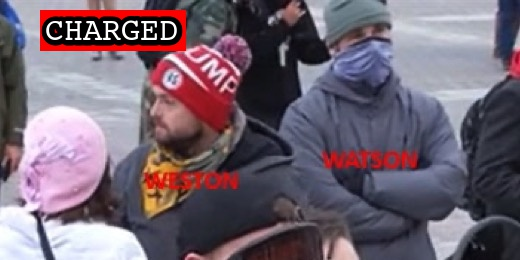
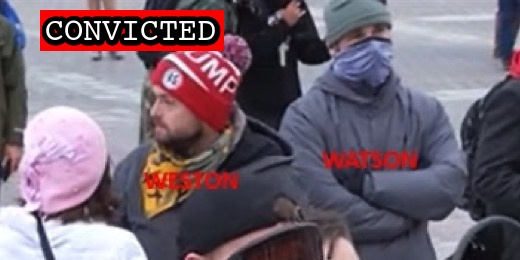
Latest

Changed region(s): [[0.1231, 0.0308, 0.4308, 0.2154]]

diff --git a/docs/_suspects/thomas-smith.md b/docs/_suspects/thomas-smith.md
@@ -17,7 +17,7 @@ plea_hearing:
 trial_date: 2023-11-13
 trial_type: Jury Trial
 jury_selection: 2023-11-13
-sentencing:
+sentencing: 2023-08-17
 status_conference:
 age:
 occupation:
@@ -38,55 +38,54 @@ layout: suspect
 published: true
 caseNumber: 21-cr-0599
 caseName: USA v. SMITH
-judge: Carl J. Nichols
+judge: Reggie B. Walton
 videos:
 charges:
-  - code: 18 USC § 231(a)(3)
-    title: Obstruction of Law Enforcement During Civil Disorder
-    url: https://www.law.cornell.edu/uscode/text/18/231
-    felony: true
-  - code: 18 USC § 231(a)(3)
-    title: Obstruction of Law Enforcement During Civil Disorder
-    url: https://www.law.cornell.edu/uscode/text/18/231
-    felony: true
-  - code: 18 USC § 1512(c)(2),2
-    title: Obstruction of an Official Proceeding (Aiding and Abetting)
-    url: https://www.law.cornell.edu/uscode/text/18/1512
-    felony: true
-  - code: 18 USC § 111(a)(1)
-    title: Assaulting, resisting, or impeding certain officers or employees
-    url: https://www.law.cornell.edu/uscode/text/18/111
-    felony: true
-  - code: 18 USC § 111(a)(1)
-    title: Assaulting, resisting, or impeding certain officers or employees
-    url: https://www.law.cornell.edu/uscode/text/18/111
-    felony: true
-  - code: 18 USC § 111(a)(1) and (b)
-    title: Assaulting, resisting, or impeding certain officers or employees (using a deadly or dangerous weapon)
-    url: https://www.law.cornell.edu/uscode/text/18/111
-    felony: true
-  - code: 18 USC § 1752(a)(1) and b(1)(A)
-    title: Entering a restricted building or grounds (w/a deadly weapon)
-    url: https://www.law.cornell.edu/uscode/text/18/1752
-    felony: true
-  - code: 18 USC § 1752(a)(1) and b(1)(A)
-    title: Entering a restricted building or grounds (w/a deadly weapon)
-    url: https://www.law.cornell.edu/uscode/text/18/1752
-    felony: true
-  - code: 18 USC § 1752(a)(1) and b(1)(A)
-    title: Entering a restricted building or grounds (w/a deadly weapon)
-    url: https://www.law.cornell.edu/uscode/text/18/1752
-    felony: true
-  - code: 40 USC § 5104(e)(2)(D)
-    title: Disorderly Conduct in a Capitol Building
-    url: https://www.law.cornell.edu/uscode/text/40/5104
-    felony: false
-  - code: 40 USC § 5104(e)(2)(F)
-    title: Act of physical violence on Capitol grounds
-    url: https://www.law.cornell.edu/uscode/text/40/5104
-    felony: false
+- code: 18 USC § 231(a)(3)
+  title: Obstruction of Law Enforcement During Civil Disorder
+  url: https://www.law.cornell.edu/uscode/text/18/231
+  felony: true
+- code: 18 USC § 231(a)(3)
+  title: Obstruction of Law Enforcement During Civil Disorder
+  url: https://www.law.cornell.edu/uscode/text/18/231
+  felony: true
+- code: 18 USC § 1512(c)(2),2
+  title: Obstruction of an Official Proceeding (Aiding and Abetting)
+  url: https://www.law.cornell.edu/uscode/text/18/1512
+  felony: true
+- code: 18 USC § 111(a)(1)
+  title: Assaulting, resisting, or impeding certain officers or employees
+  url: https://www.law.cornell.edu/uscode/text/18/111
+  felony: true
+- code: 18 USC § 111(a)(1)
+  title: Assaulting, resisting, or impeding certain officers or employees
+  url: https://www.law.cornell.edu/uscode/text/18/111
+  felony: true
+- code: 18 USC § 111(a)(1) and (b)
+  title: Assaulting, resisting, or impeding certain officers or employees (using a deadly or dangerous weapon)
+  url: https://www.law.cornell.edu/uscode/text/18/111
+  felony: true
+- code: 18 USC § 1752(a)(1) and b(1)(A)
+  title: Entering a restricted building or grounds (w/a deadly weapon)
+  url: https://www.law.cornell.edu/uscode/text/18/1752
+  felony: true
+- code: 18 USC § 1752(a)(1) and b(1)(A)
+  title: Entering a restricted building or grounds (w/a deadly weapon)
+  url: https://www.law.cornell.edu/uscode/text/18/1752
+  felony: true
+- code: 18 USC § 1752(a)(1) and b(1)(A)
+  title: Entering a restricted building or grounds (w/a deadly weapon)
+  url: https://www.law.cornell.edu/uscode/text/18/1752
+  felony: true
+- code: 40 USC § 5104(e)(2)(D)
+  title: Disorderly Conduct in a Capitol Building
+  url: https://www.law.cornell.edu/uscode/text/40/5104
+  felony: false
+- code: 40 USC § 5104(e)(2)(F)
+  title: Act of physical violence on Capitol grounds
+  url: https://www.law.cornell.edu/uscode/text/40/5104
+  felony: false
 sentence:
 ---
-
 - [News Report](https://www.huffpost.com/entry/trump-capitol-riot-cops_n_615dbe0ae4b069a0b3b84316)
 - [Indictment](https://storage.courtlistener.com/recap/gov.uscourts.dcd.235927/gov.uscourts.dcd.235927.71.0_1.pdf)

diff --git a/docs/_suspects/christopher-worrell.md b/docs/_suspects/christopher-worrell.md
@@ -41,37 +41,36 @@ caseName: USA v. WORRELL
 judge: Royce C. Lamberth
 videos:
 charges:
-  - code: 18 USC § 1512(c)(2),2
-    title: Obstruction of an Official Proceeding (Aiding and Abetting)
-    url: https://www.law.cornell.edu/uscode/text/18/1512
-    felony: true
-  - code: 18 USC § 1752(a)(1) and b(1)(A)
-    title: Entering a restricted building or grounds (w/a deadly weapon)
-    url: https://www.law.cornell.edu/uscode/text/18/1752
-    felony: true
-  - code: 18 USC § 1752(a)(2) and b(1)(A)
-    title: Disorderly and Disruptive Conduct in a Restricted Building or Grounds (w/a deadly weapon)
-    url: https://www.law.cornell.edu/uscode/text/18/1752
-    felony: true
-  - code: 18 USC § 1752(a)(4), (b)(1)(A)
-    title: Entering a restricted building or grounds with a dangerous or deadly weapon
-    url: https://www.law.cornell.edu/uscode/text/18/1752
-    felony: true
-  - code: 40 USC § 5104(e)(2)(F)
-    title: Act of physical violence on Capitol grounds
-    url: https://www.law.cornell.edu/uscode/text/40/5104
-    felony: false
-  - code: 18 USC § 231(a)(3)
-    title: Obstruction of Law Enforcement During Civil Disorder
-    url: https://www.law.cornell.edu/uscode/text/18/231
-    felony: true
-  - code: 18 USC § 111(a)(1) and (b)
-    title: Assaulting, resisting, or impeding certain officers or employees (using a deadly or dangerous weapon)
-    url: https://www.law.cornell.edu/uscode/text/18/111
-    felony: true
+- code: 18 USC § 1512(c)(2),2
+  title: Obstruction of an Official Proceeding (Aiding and Abetting)
+  url: https://www.law.cornell.edu/uscode/text/18/1512
+  felony: true
+- code: 18 USC § 1752(a)(1) and b(1)(A)
+  title: Entering a restricted building or grounds (w/a deadly weapon)
+  url: https://www.law.cornell.edu/uscode/text/18/1752
+  felony: true
+- code: 18 USC § 1752(a)(2) and b(1)(A)
+  title: Disorderly and Disruptive Conduct in a Restricted Building or Grounds (w/a deadly weapon)
+  url: https://www.law.cornell.edu/uscode/text/18/1752
+  felony: true
+- code: 18 USC § 1752(a)(4), (b)(1)(A)
+  title: Entering a restricted building or grounds with a dangerous or deadly weapon
+  url: https://www.law.cornell.edu/uscode/text/18/1752
+  felony: true
+- code: 40 USC § 5104(e)(2)(F)
+  title: Act of physical violence on Capitol grounds
+  url: https://www.law.cornell.edu/uscode/text/40/5104
+  felony: false
+- code: 18 USC § 231(a)(3)
+  title: Obstruction of Law Enforcement During Civil Disorder
+  url: https://www.law.cornell.edu/uscode/text/18/231
+  felony: true
+- code: 18 USC § 111(a)(1) and (b)
+  title: Assaulting, resisting, or impeding certain officers or employees (using a deadly or dangerous weapon)
+  url: https://www.law.cornell.edu/uscode/text/18/111
+  felony: true
 sentence:
 ---
-
 - [News Report](https://www.naplesnews.com/story/news/2021/03/13/christopher-worrell-arrested-naples-ties-proud-boys-capitol-riot-suspected/4682025001/)
 - [Statement of Facts](https://www.justice.gov/usao-dc/case-multi-defendant/file/1379556/download)
 - [Indictment](https://storage.courtlistener.com/recap/gov.uscourts.dcd.229958/gov.uscourts.dcd.229958.147.0.pdf)

diff --git a/docs/_suspects/donnie-wren.md b/docs/_suspects/donnie-wren.md
@@ -41,20 +41,19 @@ caseName: USA v. WREN
 judge: Reggie B. Walton
 videos:
 charges:
-  - code: 18 USC § 231(a)(3)
-    title: Obstruction of Law Enforcement During Civil Disorder
-    url: https://www.law.cornell.edu/uscode/text/18/231
-    felony: true
-  - code: 18 USC § 111(a)(1)
-    title: Assaulting, resisting, or impeding certain officers or employees
-    url: https://www.law.cornell.edu/uscode/text/18/111
-    felony: true
-  - code: 18 USC § 1752(a)(1)
-    title: Entering a restricted building or grounds
-    url: https://www.law.cornell.edu/uscode/text/18/1752
-    felony: false
+- code: 18 USC § 231(a)(3)
+  title: Obstruction of Law Enforcement During Civil Disorder
+  url: https://www.law.cornell.edu/uscode/text/18/231
+  felony: true
+- code: 18 USC § 111(a)(1)
+  title: Assaulting, resisting, or impeding certain officers or employees
+  url: https://www.law.cornell.edu/uscode/text/18/111
+  felony: true
+- code: 18 USC § 1752(a)(1)
+  title: Entering a restricted building or grounds
+  url: https://www.law.cornell.edu/uscode/text/18/1752
+  felony: false
 sentence:
 ---
-
 - [News Report](https://www.huffpost.com/entry/trump-capitol-riot-cops_n_615dbe0ae4b069a0b3b84316)
 - [Indictment](https://storage.courtlistener.com/recap/gov.uscourts.dcd.235927/gov.uscourts.dcd.235927.71.0_1.pdf)

diff --git a/docs/_suspects/daniel-scott.md b/docs/_suspects/daniel-scott.md
@@ -41,17 +41,16 @@ caseName: USA v. SCOTT
 judge: Royce C. Lamberth
 videos:
 charges:
-  - code: 18 USC § 1512(c)(2),2
-    title: Obstruction of an Official Proceeding (Aiding and Abetting)
-    url: https://www.law.cornell.edu/uscode/text/18/1512
-    felony: true
-  - code: 18 USC § 111(a)(1)
-    title: Assaulting, resisting, or impeding certain officers or employees
-    url: https://www.law.cornell.edu/uscode/text/18/111
-    felony: true
+- code: 18 USC § 1512(c)(2),2
+  title: Obstruction of an Official Proceeding (Aiding and Abetting)
+  url: https://www.law.cornell.edu/uscode/text/18/1512
+  felony: true
+- code: 18 USC § 111(a)(1)
+  title: Assaulting, resisting, or impeding certain officers or employees
+  url: https://www.law.cornell.edu/uscode/text/18/111
+  felony: true
 sentence:
 ---
-
 - [News Report](https://www.washingtonpost.com/local/legal-issues/proudboy-screaming-lets-take-capitol-arrested/2021/05/20/ccae5e00-b9a7-11eb-a6b1-81296da0339b_story.html)
 - [Statement of Facts](https://www.justice.gov/usao-dc/case-multi-defendant/file/1395876/download)
 - [Indictment](https://storage.courtlistener.com/recap/gov.uscourts.dcd.229958/gov.uscourts.dcd.229958.147.0.pdf)

diff --git a/docs/_suspects/jesse-watson.md b/docs/_suspects/jesse-watson.md
@@ -4,11 +4,11 @@ lastName: Watson
 hashtag:
 aka:
 residence: Washington
-status: Charged
+status: Convicted
 date: 2022-10-18
 charged: 2022-10-18
 indicted:
-convicted:
+convicted: 2023-05-12
 acquitted:
 sentenced:
 dismissed:
@@ -17,7 +17,7 @@ plea_hearing: 2023-05-12
 trial_date:
 trial_type:
 jury_selection:
-sentencing:
+sentencing: 2023-08-25
 status_conference:
 age: 33
 occupation:
@@ -32,7 +32,7 @@ raid:
 perpwalk:
 quote:
 title: Jesse Watson charged on October 18th, 2022
-description: Click for latest case details. Suspects innocent until proven guilty.
+description: Convicted on May 12, 2023. Click for latest case details.
 author: seditiontrack
 layout: suspect
 published: true
@@ -41,6 +41,10 @@ caseName: USA v. WATSON
 judge: Reggie B. Walton
 videos:
 charges:
+- code: 40 USC § 5104(e)(2)(G)
+  title: Parading, demonstrating or picketing in a Capitol building
+  url: https://www.law.cornell.edu/uscode/text/40/5104
+  felony: false
 sentence:
 ---
 - [News Report](https://www.king5.com/article/news/local/lynnwood-roommates-tucker-weston-jesse-watson-charged-jan-6-capitol-riot/281-3e9c3225-2a73-4000-a225-add81360977d)

diff --git a/docs/_suspects/michael-adams.md b/docs/_suspects/michael-adams.md
@@ -13,12 +13,12 @@ acquitted:
 sentenced:
 dismissed:
 deceased:
-plea_hearing:
+plea_hearing: 2023-05-31
 trial_date:
 trial_type:
 jury_selection:
 sentencing:
-status_conference: 2023-05-15
+status_conference:
 age:
 occupation:
 affiliations:

diff --git a/docs/_suspects/benjamin-martin.md b/docs/_suspects/benjamin-martin.md
@@ -18,7 +18,7 @@ trial_date:
 trial_type:
 jury_selection:
 sentencing:
-status_conference: 2023-05-15
+status_conference: 2023-07-13
 age:
 occupation: Real Estate Agent
 affiliations:

diff --git a/docs/_suspects/adam-jackson.md b/docs/_suspects/adam-jackson.md
@@ -18,7 +18,7 @@ trial_date:
 trial_type:
 jury_selection:
 sentencing:
-status_conference: 2023-05-15
+status_conference: 2023-06-15
 age:
 occupation:
 affiliations:

diff --git a/docs/_suspects/brian-jackson.md b/docs/_suspects/brian-jackson.md
@@ -18,7 +18,7 @@ trial_date:
 trial_type:
 jury_selection:
 sentencing:
-status_conference: 2023-05-15
+status_conference: 2023-06-15
 age:
 occupation:
 affiliations:
